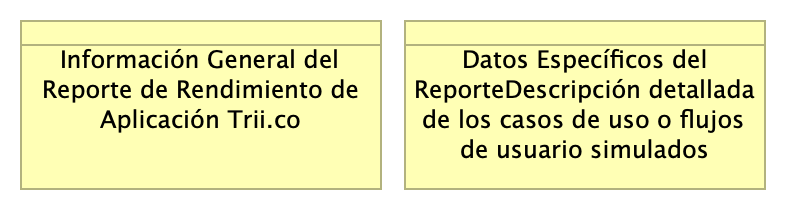
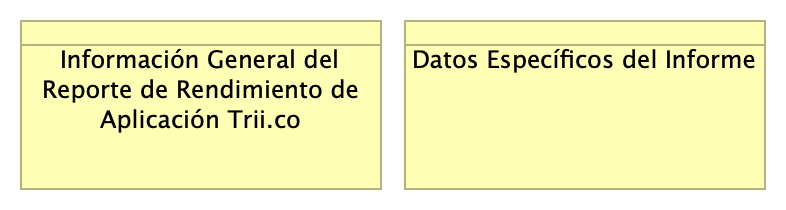
propuesta2

diff --git a/contd/docx/04.triiinforme.md b/contd/docx/04.triiinforme.md
@@ -39,7 +39,7 @@ logo-width: 60mm
 ...
 
 ## Control de Cambios
-Historia de cambios de la propuesta.
+Historia de cambios del informe.
 
 
 Versión actual: 
@@ -83,21 +83,23 @@ titlepage-rule-color: 360049
 ![05.a.Informe. _Fuente: Propuesta de certificación operativa plataforma Trii.co (2025)_](images/05.a.Informe.png){#fig:id-04abc8f16f354757a52791da825e4049 width= height=}
 
 ### Información General del Reporte de Rendimiento de Aplicación Trii.co
-Nombre de la Aplicación/Sistema Probado: Servicios de Ordenes, Auth, y User Info de la Aplicación Trii.co
-Versión de la Aplicación/Sistema: Versión 2025
-Entorno de Pruebas: infraestructura en la nube, Google Cloud, 2nd generation machine series, General-purpose workloads E2 serie, CPU Intel. Tipo de equipo: highmem, 7-14 GB.
-Fecha/Periodo de Pruebas: 15 de enero del 2025.
-Objetivos de las Pruebas: 
-* Encontrar la capacidad de los servicios Servicios Ordenes, Auth, y User Info de la Aplicación por separado en número máximo de operaciones o transacciones de los servicios por unidad de tiempo.
-* Encontrar el estrés o tensión de los servicios Servicios Ordenes, Auth, y User Info de la Aplicación por separado para determinar la holgura respecto a la demanda esperada.
-* Encontrar el nivel de estabilidad de los servicios Servicios Ordenes, Auth, y User Info (tensión) de la Aplicación.
-Métricas Clave: 
-* Capacidad (throughput) de los servicios Servicios Ordenes, Auth, y User Info 
-* Estrés (tensión) de los servicios Servicios Ordenes, Auth, y User Info
-* Estabilidad (Uso de CPU) de los servicios Servicios Ordenes, Auth, y User Info
+* Nombre de la Aplicación/Sistema Probado: Servicios de Ordenes, Auth, y User Info de la Aplicación Trii.co
+* Versión de la Aplicación/Sistema: Versión 2025
+* Entorno de Pruebas: infraestructura en la nube, Google Cloud, 2nd generation machine series, General-purpose workloads E2 serie, CPU Intel. Tipo de equipo: highmem, 7-14 GB.
+* Fecha/Periodo de Pruebas: 15 de enero del 2025.
+* Objetivos de las Pruebas: 
+    * Encontrar la capacidad de los servicios Servicios Ordenes, Auth, y User Info de la Aplicación por separado en número máximo de operaciones o transacciones de los servicios por unidad de tiempo.
+    * Encontrar el nivel de estabilidad de los servicios Servicios Ordenes, Auth, y User Info (tensión) de la Aplicación.
+    * Dar pautas alrededor del estrés o tensión de los servicios Servicios Ordenes, Auth, y User Info de la Aplicación por separado para determinar la holgura respecto a la demanda esperada.
+* Métricas Clave: 
+    * Capacidad (throughput) de los servicios Servicios Ordenes, Auth, y User Info 
+    * Estrés (tensión) de los servicios Servicios Ordenes, Auth, y User Info
+    * Estabilidad (Uso de CPU) de los servicios Servicios Ordenes, Auth, y User Info
 Herramienta de Pruebas: K6, de Grafana Labs.
 
-### Datos Específicos del ReporteDescripción detallada de los casos de uso o flujos de usuario simulados
+### Datos Específicos del Informe
+Descripción detallada de los casos de uso o flujos de usuario simulados.
+
 ### Pruebas de Rendimiento Servicio Get User Info de Trii.co
 El servicio Get User Info (user info) <descripción>. Realiza como mínimo actividades 1, 2 y 3 <descripción>.
 

diff --git a/contd/pdf/04.triiinforme.md b/contd/pdf/04.triiinforme.md
@@ -39,7 +39,7 @@ logo-width: 60mm
 ...
 
 ## Control de Cambios
-Historia de cambios de la propuesta.
+Historia de cambios del informe.
 
 
 Versión actual: 
@@ -83,21 +83,23 @@ titlepage-rule-color: 360049
 ![05.a.Informe. _Fuente: Propuesta de certificación operativa plataforma Trii.co (2025)_](images/05.a.Informe.png){#fig:id-04abc8f16f354757a52791da825e4049 width= height=}
 
 ### Información General del Reporte de Rendimiento de Aplicación Trii.co
-Nombre de la Aplicación/Sistema Probado: Servicios de Ordenes, Auth, y User Info de la Aplicación Trii.co
-Versión de la Aplicación/Sistema: Versión 2025
-Entorno de Pruebas: infraestructura en la nube, Google Cloud, 2nd generation machine series, General-purpose workloads E2 serie, CPU Intel. Tipo de equipo: highmem, 7-14 GB.
-Fecha/Periodo de Pruebas: 15 de enero del 2025.
-Objetivos de las Pruebas: 
-* Encontrar la capacidad de los servicios Servicios Ordenes, Auth, y User Info de la Aplicación por separado en número máximo de operaciones o transacciones de los servicios por unidad de tiempo.
-* Encontrar el estrés o tensión de los servicios Servicios Ordenes, Auth, y User Info de la Aplicación por separado para determinar la holgura respecto a la demanda esperada.
-* Encontrar el nivel de estabilidad de los servicios Servicios Ordenes, Auth, y User Info (tensión) de la Aplicación.
-Métricas Clave: 
-* Capacidad (throughput) de los servicios Servicios Ordenes, Auth, y User Info 
-* Estrés (tensión) de los servicios Servicios Ordenes, Auth, y User Info
-* Estabilidad (Uso de CPU) de los servicios Servicios Ordenes, Auth, y User Info
+* Nombre de la Aplicación/Sistema Probado: Servicios de Ordenes, Auth, y User Info de la Aplicación Trii.co
+* Versión de la Aplicación/Sistema: Versión 2025
+* Entorno de Pruebas: infraestructura en la nube, Google Cloud, 2nd generation machine series, General-purpose workloads E2 serie, CPU Intel. Tipo de equipo: highmem, 7-14 GB.
+* Fecha/Periodo de Pruebas: 15 de enero del 2025.
+* Objetivos de las Pruebas: 
+    * Encontrar la capacidad de los servicios Servicios Ordenes, Auth, y User Info de la Aplicación por separado en número máximo de operaciones o transacciones de los servicios por unidad de tiempo.
+    * Encontrar el nivel de estabilidad de los servicios Servicios Ordenes, Auth, y User Info (tensión) de la Aplicación.
+    * Dar pautas alrededor del estrés o tensión de los servicios Servicios Ordenes, Auth, y User Info de la Aplicación por separado para determinar la holgura respecto a la demanda esperada.
+* Métricas Clave: 
+    * Capacidad (throughput) de los servicios Servicios Ordenes, Auth, y User Info 
+    * Estrés (tensión) de los servicios Servicios Ordenes, Auth, y User Info
+    * Estabilidad (Uso de CPU) de los servicios Servicios Ordenes, Auth, y User Info
 Herramienta de Pruebas: K6, de Grafana Labs.
 
-### Datos Específicos del ReporteDescripción detallada de los casos de uso o flujos de usuario simulados
+### Datos Específicos del Informe
+Descripción detallada de los casos de uso o flujos de usuario simulados.
+
 ### Pruebas de Rendimiento Servicio Get User Info de Trii.co
 El servicio Get User Info (user info) <descripción>. Realiza como mínimo actividades 1, 2 y 3 <descripción>.
 

diff --git a/contd/tex/04.triiinforme.md b/contd/tex/04.triiinforme.md
@@ -39,7 +39,7 @@ logo-width: 60mm
 ...
 
 ## Control de Cambios
-Historia de cambios de la propuesta.
+Historia de cambios del informe.
 
 
 Versión actual: 
@@ -83,21 +83,23 @@ titlepage-rule-color: 360049
 ![05.a.Informe. _Fuente: Propuesta de certificación operativa plataforma Trii.co (2025)_](images/05.a.Informe.png){#fig:id-04abc8f16f354757a52791da825e4049 width= height=}
 
 ### Información General del Reporte de Rendimiento de Aplicación Trii.co
-Nombre de la Aplicación/Sistema Probado: Servicios de Ordenes, Auth, y User Info de la Aplicación Trii.co
-Versión de la Aplicación/Sistema: Versión 2025
-Entorno de Pruebas: infraestructura en la nube, Google Cloud, 2nd generation machine series, General-purpose workloads E2 serie, CPU Intel. Tipo de equipo: highmem, 7-14 GB.
-Fecha/Periodo de Pruebas: 15 de enero del 2025.
-Objetivos de las Pruebas: 
-* Encontrar la capacidad de los servicios Servicios Ordenes, Auth, y User Info de la Aplicación por separado en número máximo de operaciones o transacciones de los servicios por unidad de tiempo.
-* Encontrar el estrés o tensión de los servicios Servicios Ordenes, Auth, y User Info de la Aplicación por separado para determinar la holgura respecto a la demanda esperada.
-* Encontrar el nivel de estabilidad de los servicios Servicios Ordenes, Auth, y User Info (tensión) de la Aplicación.
-Métricas Clave: 
-* Capacidad (throughput) de los servicios Servicios Ordenes, Auth, y User Info 
-* Estrés (tensión) de los servicios Servicios Ordenes, Auth, y User Info
-* Estabilidad (Uso de CPU) de los servicios Servicios Ordenes, Auth, y User Info
+* Nombre de la Aplicación/Sistema Probado: Servicios de Ordenes, Auth, y User Info de la Aplicación Trii.co
+* Versión de la Aplicación/Sistema: Versión 2025
+* Entorno de Pruebas: infraestructura en la nube, Google Cloud, 2nd generation machine series, General-purpose workloads E2 serie, CPU Intel. Tipo de equipo: highmem, 7-14 GB.
+* Fecha/Periodo de Pruebas: 15 de enero del 2025.
+* Objetivos de las Pruebas: 
+    * Encontrar la capacidad de los servicios Servicios Ordenes, Auth, y User Info de la Aplicación por separado en número máximo de operaciones o transacciones de los servicios por unidad de tiempo.
+    * Encontrar el nivel de estabilidad de los servicios Servicios Ordenes, Auth, y User Info (tensión) de la Aplicación.
+    * Dar pautas alrededor del estrés o tensión de los servicios Servicios Ordenes, Auth, y User Info de la Aplicación por separado para determinar la holgura respecto a la demanda esperada.
+* Métricas Clave: 
+    * Capacidad (throughput) de los servicios Servicios Ordenes, Auth, y User Info 
+    * Estrés (tensión) de los servicios Servicios Ordenes, Auth, y User Info
+    * Estabilidad (Uso de CPU) de los servicios Servicios Ordenes, Auth, y User Info
 Herramienta de Pruebas: K6, de Grafana Labs.
 
-### Datos Específicos del ReporteDescripción detallada de los casos de uso o flujos de usuario simulados
+### Datos Específicos del Informe
+Descripción detallada de los casos de uso o flujos de usuario simulados.
+
 ### Pruebas de Rendimiento Servicio Get User Info de Trii.co
 El servicio Get User Info (user info) <descripción>. Realiza como mínimo actividades 1, 2 y 3 <descripción>.
 
